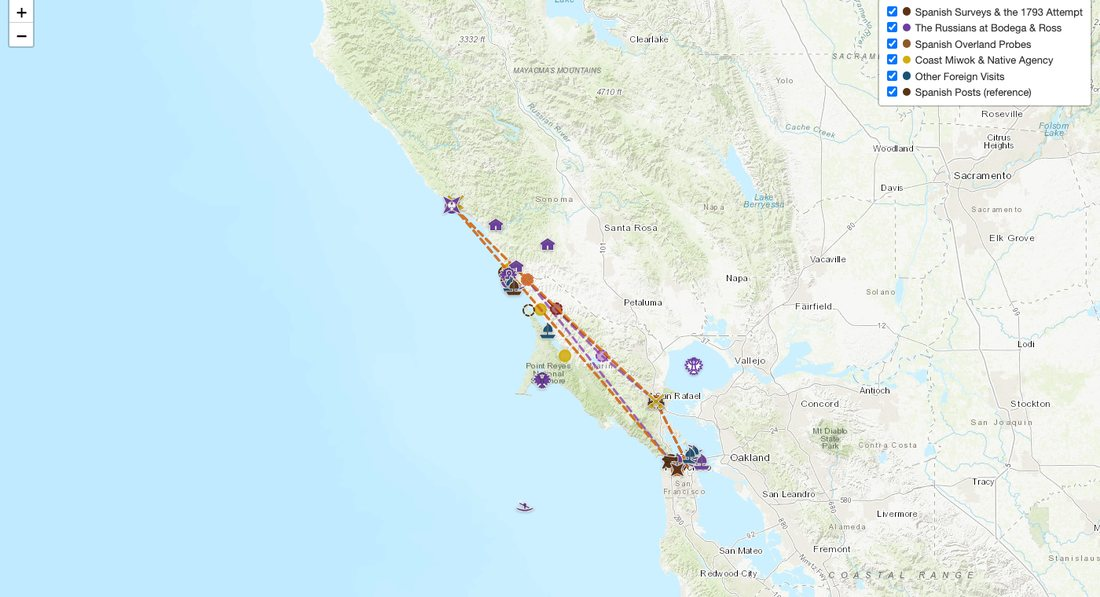
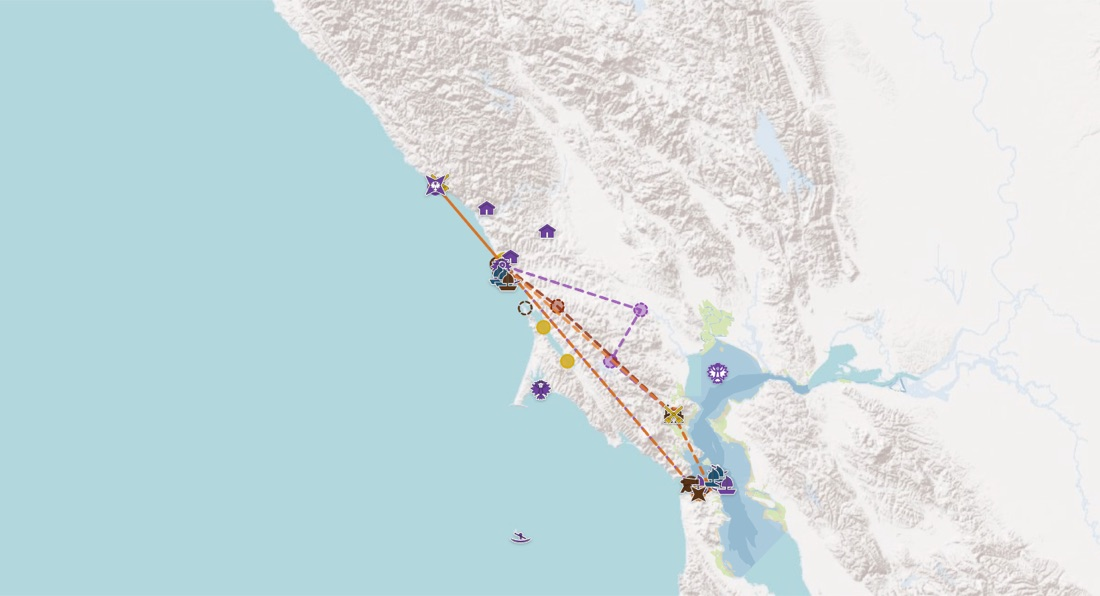
Thumbnails: all 14 main-map previews re-shot in the historic-relief style, no controls; QA scripts now pass (0/0)
- qa_check: exhibit pages, source lists and redirect stubs exempt from the data-map shell rule; exhibit data
  files checked against the landing stats instead; root-relative links resolve to the custom-domain root
- check_counts: 'unknown' allowed for undated reference points (NAHC rancho file), documented in schema.md
- missions-establishments redirect stub gets a viewport meta

diff --git a/maps/missions-establishments.html b/maps/missions-establishments.html
@@ -2,6 +2,7 @@
 <html lang="en">
 <head>
 <meta charset="utf-8">
+<meta name="viewport" content="width=device-width, initial-scale=1">
 <meta http-equiv="refresh" content="0; url=missionization.html">
 <link rel="canonical" href="https://maps.archivesofcalifornia.com/maps/missionization.html">
 <title>Moved · Missionization: the Establishment System</title>

diff --git a/scripts/qa_check.py b/scripts/qa_check.py
@@ -28,6 +28,8 @@ for page in glob.glob(os.path.join(ROOT, "**", "*.html"), recursive=True):
         if u.startswith("/california-history-maps/"):  # Pages site-root absolute
             target = os.path.normpath(os.path.join(ROOT, u[len("/california-history-maps/"):]) or ROOT)
             if u.endswith("/"): target = os.path.join(target, "index.html") if os.path.isdir(target) else target
+        elif u.startswith("/"):  # custom-domain site root (maps.archivesofcalifornia.com)
+            target = os.path.normpath(os.path.join(ROOT, u.lstrip("/")))
         else:
             target = os.path.normpath(os.path.join(base, u))
         if os.path.isdir(target) and os.path.exists(os.path.join(target, "index.html")):
@@ -58,9 +60,18 @@ print(f"deep links checked: {n_links}")
 
 # 3. every map shell's data file exists; every data map has a shell + landing card
 index = open(os.path.join(ROOT, "index.html")).read()
+# exhibit (panels-engine) pages, source-list pages and redirect stubs have no data-map shell by design;
+# data files that feed an exhibit map are reached through that page, not a shell of their own
+panels_js = open(os.path.join(ROOT, "assets", "js", "panels-engine.js")).read()
+exhibit_data = set(re.findall(r"\.\./data/([a-z0-9-]+)\.json", panels_js))
+def _exempt_shell(html):
+    return 'data-panel=' in html or 'http-equiv="refresh"' in html or 'class="sources-page' in html
 for shell in glob.glob(os.path.join(ROOT, "maps", "*.html")):
-    mid = re.search(r'data-map="([^"]+)"', open(shell).read())
+    html = open(shell).read()
+    mid = re.search(r'data-map="([^"]+)"', html)
     if not mid:
+        if _exempt_shell(html) or shell.endswith("sources.html"):
+            continue
         err(f"{shell}: no data-map attr"); continue
     if not os.path.exists(os.path.join(ROOT, "data", mid.group(1) + ".json")):
         err(f"{shell}: missing data file {mid.group(1)}.json")
@@ -68,7 +79,15 @@ for p in glob.glob(os.path.join(ROOT, "data", "*.json")):
     d = json.load(open(p))
     if "id" not in d or "features" not in d:
         continue
-    if not os.path.exists(os.path.join(ROOT, "maps", d["id"] + ".html")):
+    shell_p = os.path.join(ROOT, "maps", d["id"] + ".html")
+    redirect = os.path.exists(shell_p) and 'http-equiv="refresh"' in open(shell_p).read()
+    if d["id"] in exhibit_data and not os.path.exists(shell_p):
+        if f'"{d["id"]}"' not in index:
+            err(f"{d['id']}: exhibit data missing from landing stats array")
+        continue
+    if redirect:
+        continue  # superseded map; its page forwards to the replacement
+    if not os.path.exists(shell_p):
         err(f"{d['id']}: no shell page")
     if d["id"] + ".html" not in index:
         err(f"{d['id']}: no landing card")

diff --git a/scripts/check_counts.py b/scripts/check_counts.py
@@ -11,7 +11,7 @@ Exits non-zero on any failure. Also prints per-map counts for the landing page.
 import json, sys, glob, os
 
 PREC = {"exact", "place", "area", "conjectural"}
-CONF = {"exact", "month", "year", "circa", "range"}
+CONF = {"exact", "month", "year", "circa", "range", "unknown"}
 ROOT = os.path.dirname(os.path.dirname(os.path.abspath(__file__)))
 fail = 0
 

diff --git a/data/schema.md b/data/schema.md
@@ -30,7 +30,7 @@ Every map = one JSON file in `data/`, rendered by `assets/js/map-engine.js`. Add
   "register_no": "121",                   // military-register # where applicable, else null
   "name": "The Jacum battle — capitanejo Charagui defeats the San Diego column",
   "date": {"iso": "1837-05", "display": "May 1837", "confidence": "month"},
-       // confidence: exact | month | year | circa | range
+       // confidence: exact | month | year | circa | range | unknown (undated reference points only)
   "coords": [32.62, -116.19],
   "coord_precision": "place",             // exact | place | area | conjectural
        // exact = the source pins the spot; place = known settlement/feature;
